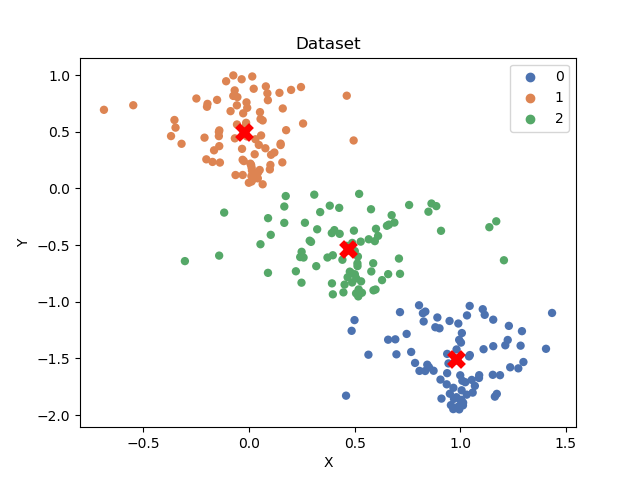
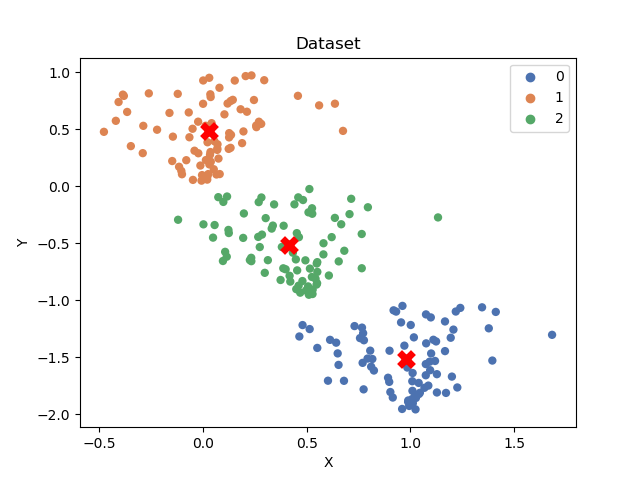
update k-means

diff --git a/k-means/k-means.py b/k-means/k-means.py
@@ -3,6 +3,11 @@ import matplotlib.pyplot as plt
 import seaborn as sns
 import os, sys
 
+def init_centroid(X, K):
+    m = X.shape[0]
+    idx = np.random.choice(m, K, replace = False)
+    return X[idx, :]
+
 def update_label(X, centroid):
     m, K = X.shape[0], centroid.shape[0]
     dist = np.zeros((m, K))
@@ -16,19 +21,12 @@ def update_label(X, centroid):
     total_dist = np.sum(np.choose(label, dist.T))
     return label, total_dist
 
-
 def update_centroid(X, label, K):
     D = X.shape[1]
     centroid = np.zeros((K, D))
     for i in range(K):
         centroid[i, :] = np.mean(X[label.flatten() == i, :], axis=0).reshape(1,-1)
     return centroid
-
-
-def init_centroid(X, K):
-    m = X.shape[0]
-    idx = np.random.choice(m, K, replace = False)
-    return X[idx, :]
 
 def k_means(X, K, num_iters = 100):
     m = X.shape[0]
@@ -55,7 +53,14 @@ if __name__ == '__main__':
         t = np.random.normal(0, 0.4, (N, 1)) # theta
         X[i * N:(i + 1) * N] = np.append(r * np.sin(t) + i/2, r * np.cos(t) - 2*i/2, axis = 1)
 
-    centroid, label, _ = k_means(X, K, num_iters = 100)
+    # sns.scatterplot(x = X[:, 0], y = X[:, 1], edgecolor = "none")
+    # plt.title('Dataset')
+    # plt.ylabel('Y')
+    # plt.xlabel('X')
+    # plt.savefig(os.path.join(images_dir, 'dataset.png'))
+    # plt.clf()
+
+    centroid, label, _ = k_means(X, K, num_iters = 50)
 
     sns.scatterplot(x = X[:, 0], y = X[:, 1], hue = label, palette = sns.color_palette('deep', K), edgecolor = "none")
     sns.scatterplot(x = centroid[:, 0], y = centroid[:, 1], marker = "x", facecolor='red', s = 10**2, linewidth = 5)
